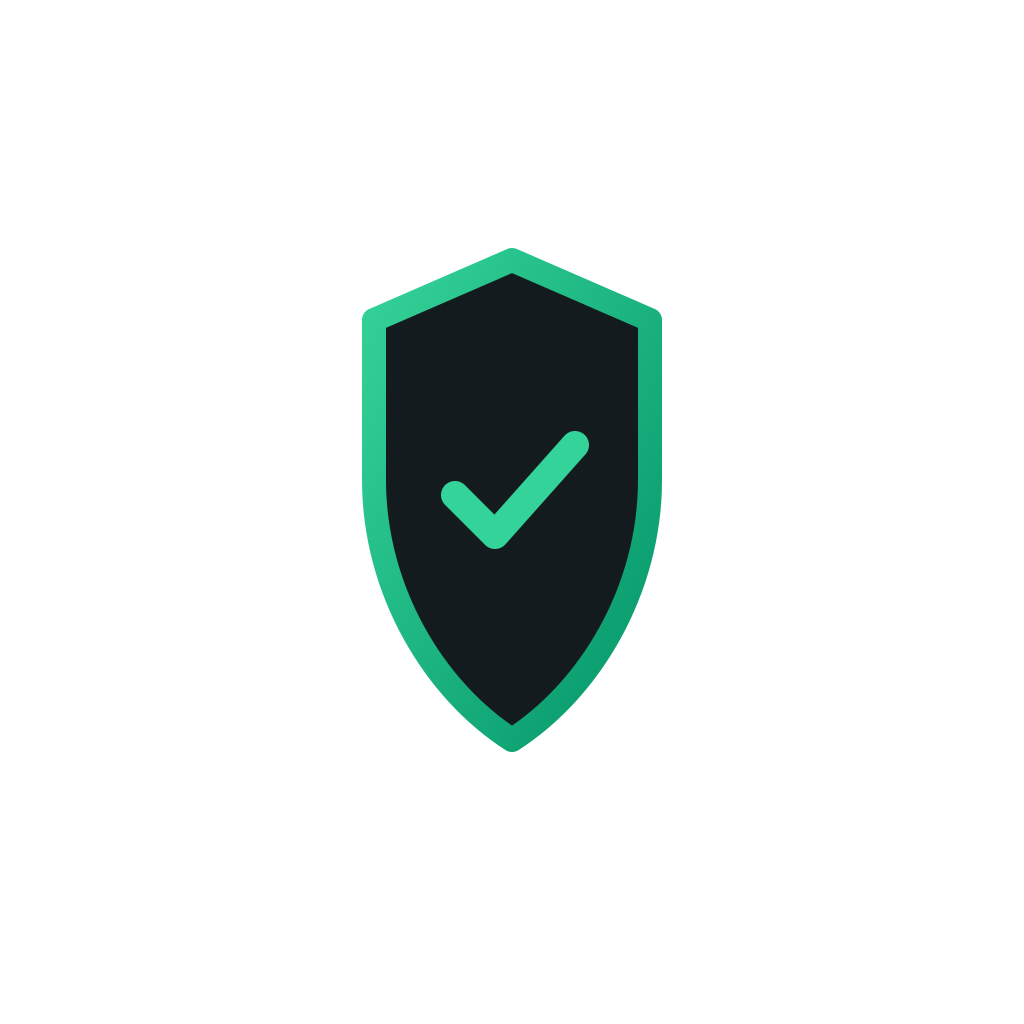
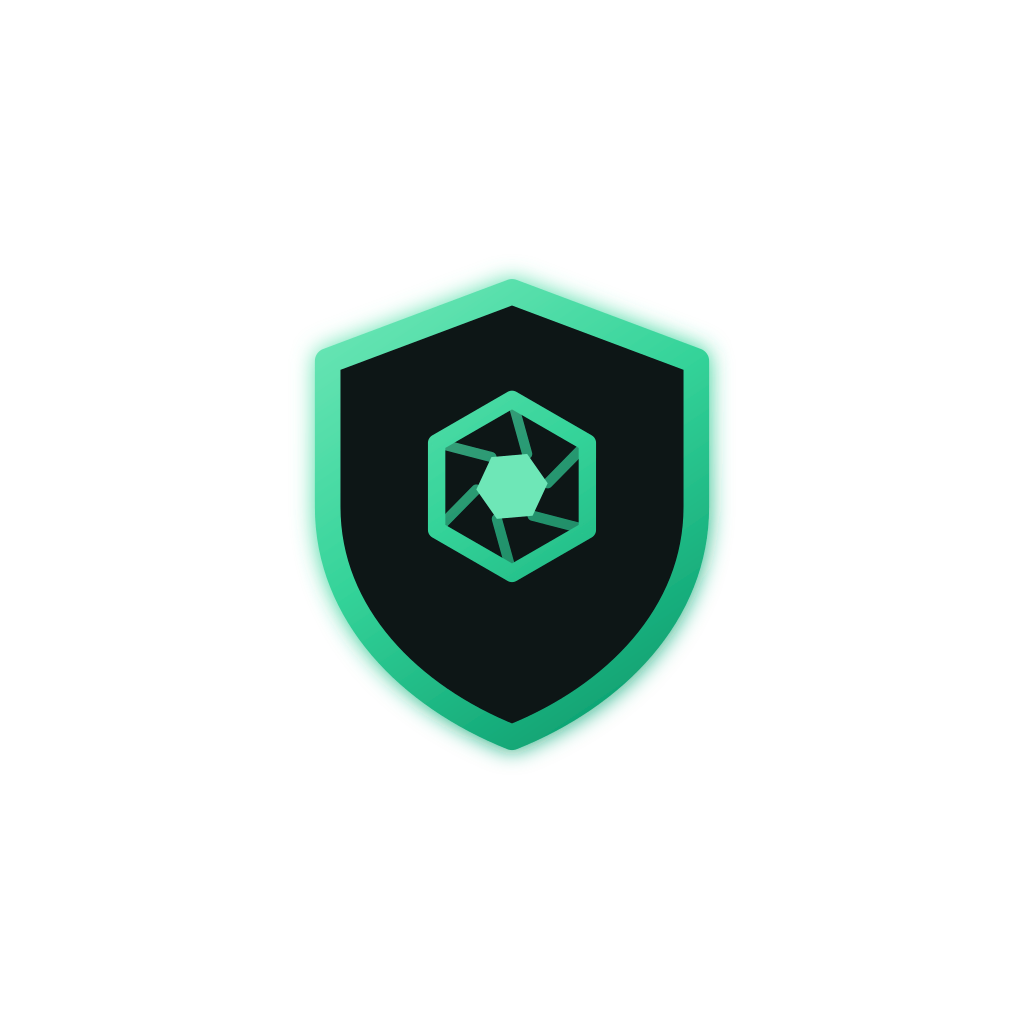
updated splash

Changed region(s): [[0.2812, 0.25, 0.7188, 0.75]]

diff --git a/src/components/ui/BrandMark/index.tsx b/src/components/ui/BrandMark/index.tsx
@@ -1,0 +1,171 @@
+import Svg, {
+  Defs,
+  G,
+  Line,
+  LinearGradient,
+  Path,
+  Polygon,
+  Stop,
+} from "react-native-svg";
+
+/**
+ * RentalShield brand mark — a shield whose interior is a camera aperture,
+ * framed by viewfinder crop marks. Protection + photographic evidence in one
+ * shape, so it reads as forensic capture rather than a generic security badge.
+ *
+ * All geometry lives on a 100x100 viewBox and is mirrored by
+ * scripts/generate-brand-assets.mjs, which rasterizes the same paths into the
+ * app icon and splash PNGs. Change one, change the other.
+ */
+
+// Aperture: an outer hexagon (r=17) and an inner opening (r=7) rotated -25deg.
+// Spokes run outer[i] -> inner[i], so they all lean the same way and read as
+// iris blades. Connecting symmetric vertices instead would draw a hexagram.
+const OUTER = [
+  [50, 28],
+  [64.72, 36.5],
+  [64.72, 53.5],
+  [50, 62],
+  [35.28, 53.5],
+  [35.28, 36.5],
+] as const;
+
+const INNER = [
+  [52.96, 38.66],
+  [56.97, 44.39],
+  [54.02, 50.73],
+  [47.04, 51.34],
+  [43.03, 45.61],
+  [45.98, 39.27],
+] as const;
+
+const pts = (v: readonly (readonly [number, number])[] | typeof OUTER) =>
+  v.map(([x, y]) => `${x},${y}`).join(" ");
+
+const OUTER_PTS = pts(OUTER);
+const INNER_PTS = pts(INNER);
+
+const SHIELD =
+  "M50 7 L86 20.5 V49 C86 70 70 86 50 94 C30 86 14 70 14 49 V20.5 Z";
+
+const BRACKETS = [
+  "M6 20 V6 H20",
+  "M80 6 H94 V20",
+  "M94 80 V94 H80",
+  "M20 94 H6 V80",
+];
+
+const EDGE = "url(#rsEdge)";
+
+function Brackets() {
+  return (
+    <>
+      {BRACKETS.map((d, i) => (
+        <Path
+          key={i}
+          d={d}
+          fill="none"
+          stroke="#34D399"
+          strokeWidth={2.6}
+          strokeLinecap="round"
+          strokeLinejoin="round"
+          opacity={0.5}
+        />
+      ))}
+    </>
+  );
+}
+
+function Aperture() {
+  return (
+    <G>
+      <Polygon
+        points={OUTER_PTS}
+        fill="none"
+        stroke={EDGE}
+        strokeWidth={3.4}
+        strokeLinejoin="round"
+      />
+      {OUTER.map(([x1, y1], i) => (
+        <Line
+          key={i}
+          x1={x1}
+          y1={y1}
+          x2={INNER[i][0]}
+          y2={INNER[i][1]}
+          stroke={EDGE}
+          strokeWidth={2}
+          strokeLinecap="round"
+          opacity={0.7}
+        />
+      ))}
+      <Polygon points={INNER_PTS} fill="#6EE7B7" />
+    </G>
+  );
+}
+
+function Gradient() {
+  return (
+    <Defs>
+      <LinearGradient id="rsEdge" x1="20" y1="4" x2="82" y2="96">
+        <Stop offset="0" stopColor="#6EE7B7" />
+        <Stop offset="0.45" stopColor="#34D399" />
+        <Stop offset="1" stopColor="#059669" />
+      </LinearGradient>
+    </Defs>
+  );
+}
+
+/** Shield + aperture, without the corner brackets. */
+export function BrandShield({ size = 96 }: { size?: number }) {
+  return (
+    <Svg width={size} height={size} viewBox="0 0 100 100" fill="none">
+      <Gradient />
+      <Path d={SHIELD} fill="#0B1215" />
+      <Path
+        d={SHIELD}
+        fill="none"
+        stroke={EDGE}
+        strokeWidth={5}
+        strokeLinejoin="round"
+      />
+      <Aperture />
+    </Svg>
+  );
+}
+
+/** Viewfinder corner brackets, sized to sit just outside the shield. */
+export function BrandFrame({ size = 96 }: { size?: number }) {
+  return (
+    <Svg width={size} height={size} viewBox="0 0 100 100" fill="none">
+      <Brackets />
+    </Svg>
+  );
+}
+
+export function BrandMark({
+  size = 96,
+  withFrame = true,
+}: {
+  size?: number;
+  /** Viewfinder corner brackets. Drop them when the mark sits inline in text. */
+  withFrame?: boolean;
+}) {
+  return (
+    <Svg width={size} height={size} viewBox="0 0 100 100" fill="none">
+      <Gradient />
+      {withFrame && <Brackets />}
+      <G transform={withFrame ? "translate(6 6) scale(0.88)" : undefined}>
+        <Path d={SHIELD} fill="#0B1215" />
+        <Path
+          d={SHIELD}
+          fill="none"
+          stroke={EDGE}
+          strokeWidth={5}
+          strokeLinejoin="round"
+        />
+        <Aperture />
+      </G>
+    </Svg>
+  );
+}

diff --git a/src/components/ui/AnimatedSplash/index.tsx b/src/components/ui/AnimatedSplash/index.tsx
@@ -10,7 +10,7 @@ import Animated, {
   Easing,
   runOnJS,
 } from "react-native-reanimated";
-import { ShieldCheck, Crosshair, Zap } from "lucide-react-native";
+import { BrandFrame, BrandShield } from "../BrandMark";
 
 interface AnimatedSplashProps {
   onAnimationComplete: () => void;
@@ -18,10 +18,8 @@ interface AnimatedSplashProps {
 
 export function AnimatedSplash({ onAnimationComplete }: AnimatedSplashProps) {
   // Animation Nodes
-  const arrowTranslateX = useSharedValue(-260);
-  const arrowTranslateY = useSharedValue(-260);
-  const arrowOpacity = useSharedValue(0);
-  const arrowScale = useSharedValue(1.6);
+  const frameOpacity = useSharedValue(0);
+  const frameScale = useSharedValue(1.75);
 
   const shockwaveScale = useSharedValue(0);
   const shockwaveOpacity = useSharedValue(0);
@@ -35,17 +33,12 @@ export function AnimatedSplash({ onAnimationComplete }: AnimatedSplashProps) {
   const badgeOpacity = useSharedValue(0);
 
   useEffect(() => {
-    // 1. Kinetic Arrow Entry (Fast diagonal sweep to center)
-    arrowOpacity.value = withTiming(1, { duration: 150 });
-    arrowTranslateX.value = withTiming(0, {
-      duration: 550,
+    // 1. Viewfinder brackets converge, like a camera pulling focus.
+    frameOpacity.value = withTiming(1, { duration: 200 });
+    frameScale.value = withTiming(1, {
+      duration: 620,
       easing: Easing.bezier(0.16, 1, 0.3, 1),
     });
-    arrowTranslateY.value = withTiming(0, {
-      duration: 550,
-      easing: Easing.bezier(0.16, 1, 0.3, 1),
-    });
-    arrowScale.value = withTiming(0.8, { duration: 550 });
 
     // 2. Shockwave Pulse on Impact (fires at t = 550ms)
     shockwaveScale.value = withDelay(
@@ -63,9 +56,7 @@ export function AnimatedSplash({ onAnimationComplete }: AnimatedSplashProps) {
       )
     );
 
-    // 3. Shield Lock-in Snap (replaces arrow on impact)
-    arrowOpacity.value = withDelay(530, withTiming(0, { duration: 80 }));
-
+    // 3. Shield locks into the framed area once focus lands.
     shieldOpacity.value = withDelay(530, withTiming(1, { duration: 150 }));
     shieldScale.value = withDelay(
       530,
@@ -90,14 +81,9 @@ export function AnimatedSplash({ onAnimationComplete }: AnimatedSplashProps) {
     return () => clearTimeout(timer);
   }, []);
 
-  const arrowStyle = useAnimatedStyle(() => ({
-    transform: [
-      { translateX: arrowTranslateX.value },
-      { translateY: arrowTranslateY.value },
-      { scale: arrowScale.value },
-      { rotate: "135deg" },
-    ],
-    opacity: arrowOpacity.value,
+  const frameStyle = useAnimatedStyle(() => ({
+    transform: [{ scale: frameScale.value }],
+    opacity: frameOpacity.value,
   }));
 
   const shockwaveStyle = useAnimatedStyle(() => ({
@@ -129,17 +115,14 @@ export function AnimatedSplash({ onAnimationComplete }: AnimatedSplashProps) {
           className="absolute w-32 h-32 rounded-full border-2 border-brand-400 bg-brand-500/20"
         />
 
-        {/* Incoming Kinetic Vector */}
-        <Animated.View style={[arrowStyle, { position: "absolute" }]}>
-          <Zap size={44} color="#34D399" fill="#34D399" />
+        {/* Converging Viewfinder */}
+        <Animated.View style={[frameStyle, { position: "absolute" }]}>
+          <BrandFrame size={128} />
         </Animated.View>
 
         {/* Locked Forensic Shield */}
-        <Animated.View
-          style={shieldStyle}
-          className="w-28 h-28 rounded-3xl bg-surface-card border border-brand-500/50 items-center justify-center shadow-xl shadow-brand-500/30"
-        >
-          <ShieldCheck size={58} color="#10B981" strokeWidth={2.2} />
+        <Animated.View style={shieldStyle} className="absolute">
+          <BrandShield size={92} />
         </Animated.View>
       </View>
 

diff --git a/src/app/index.tsx b/src/app/index.tsx
@@ -1,17 +1,11 @@
-import React, { useState } from "react";
 import { View, Text, TouchableOpacity, StatusBar } from "react-native";
 import { SafeAreaView } from "react-native-safe-area-context";
 import { useRouter } from "expo-router";
-import { Shield, ArrowRight, CheckCircle2 } from "lucide-react-native";
-import { AnimatedSplash } from "../components/ui/AnimatedSplash";
+import { ArrowRight, CheckCircle2 } from "lucide-react-native";
+import { BrandMark } from "../components/ui/BrandMark";
 
 export default function IndexScreen() {
   const router = useRouter();
-  const [isSplashing, setIsSplashing] = useState(true);
-
-  if (isSplashing) {
-    return <AnimatedSplash onAnimationComplete={() => setIsSplashing(false)} />;
-  }
 
   return (
     <SafeAreaView className="flex-1 bg-surface-dark justify-between px-6 py-10">
@@ -19,9 +13,8 @@ export default function IndexScreen() {
 
       {/* Top Header / Brand */}
       <View className="items-center mt-6">
-        <View className="w-16 h-16 rounded-2xl bg-surface-card border border-brand-500/30 items-center justify-center mb-4">
-          <Shield size={32} color="#10B981" />
-        </View>
+        <BrandMark size={88} />
+        <View className="h-3" />
         <Text className="text-3xl font-extrabold text-white tracking-tight text-center">
           Rental<Text className="text-brand-500">Shield</Text>
         </Text>

diff --git a/src/app/_layout.tsx b/src/app/_layout.tsx
@@ -1,10 +1,32 @@
 import "../global.css"; // Adjust relative path to where your global.css is located
+import { useCallback, useState } from "react";
+import { StyleSheet, View } from "react-native";
 import { Stack } from "expo-router";
+import * as SplashScreen from "expo-splash-screen";
+import { AnimatedSplash } from "../components/ui/AnimatedSplash";
+
+// Hold the native splash until AnimatedSplash has painted, so the two hand off
+// as one continuous screen instead of playing back to back.
+SplashScreen.preventAutoHideAsync();
+SplashScreen.setOptions({ fade: true, duration: 400 });
 
 export default function RootLayout() {
+  const [splashDone, setSplashDone] = useState(false);
+
+  // Once the animated splash has laid out there is real content behind the
+  // native splash, so it is safe to drop.
+  const handleSplashLayout = useCallback(() => {
+    SplashScreen.hideAsync();
+  }, []);
+
   return (
-    <Stack screenOptions={{ headerShown: false }}>
-      <Stack.Screen name="index" />
-    </Stack>
+    <View className="flex-1 bg-surface-dark">
+      <Stack screenOptions={{ headerShown: false }} />
+      {!splashDone && (
+        <View style={StyleSheet.absoluteFill} onLayout={handleSplashLayout}>
+          <AnimatedSplash onAnimationComplete={() => setSplashDone(true)} />
+        </View>
+      )}
+    </View>
   );
 }
